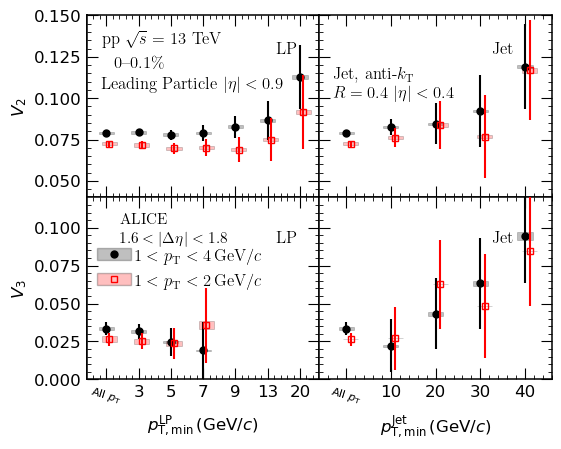
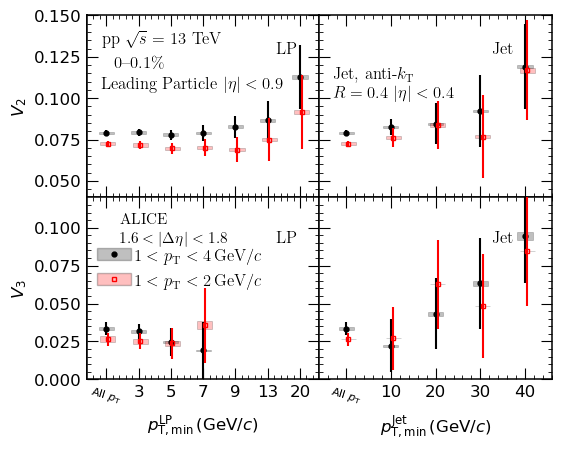
Event-scale figure marker size

diff --git a/Fig4_vn_ess.py b/Fig4_vn_ess.py
@@ -17,8 +17,8 @@ matplotlib.rcParams["axes.linewidth"] = 1.1;
 
 f = ROOT.TFile("data/Final_Items.root","read"); #root file for 1-4 GeV/c pt
 dataTypePlotParams = [
-	{'plotType':'data','color':'k','fmt':'o','markersize':5.0},
-	{'plotType':'data','color':'r','fmt':'s','fillstyle':'none','markersize':5.0},
+	{'plotType':'data','color':'k','fmt':'o','markersize':3.5},
+	{'plotType':'data','color':'r','fmt':'s','fillstyle':'none','markersize':3.5},
 	{'plotType':'theory','facecolor':'C0','edgecolor':'C0','alpha':0.5,'linestyle':'solid','linecolor':'C0'},
 	{'plotType':'theory','facecolor':'C1','edgecolor':'C1','alpha':0.5,'linestyle':'dotted','linecolor':'C1'},
 	{'plotType':'theory','facecolor':'C2','edgecolor':'C2','alpha':0.5,'linestyle':'dashed','linecolor':'C2'},
@@ -106,7 +106,7 @@ for iobs in range(0,2):
 			gr12 = (x,y,yerr);
 
 		data = plot.Add(index,gr,**dataTypePlotParams[0],label=dataDetail[0]);
-		data12 = plot.Add(index,gr12,**dataTypePlotParams[1],label=dataDetail12[0],xshift=0.1);
+		data12 = plot.Add(index,gr12,**dataTypePlotParams[1],label=dataDetail12[0],xshift=0.05);
 		plot.AddSyst(data,syst);
 		plot.AddSyst(data12,syst12);
 #			if( iobs==0 ):
